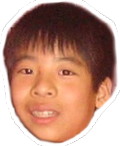
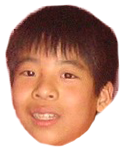
戦闘画面上部の力士名にも二つ名を表示する
名前より小さく添える。左右対称のHUDのため二つ名は内側に置き、
力士名そのものが画面の外端に残るようにした。

名前の設定箇所が2つに分かれていたため setHudName へ集約。
draw() は Player を、画面初期化時は baseStats を渡してくるため、
どちらを受け取っても二つ名を取り出せるようにしている。

diff --git a/js/ui.js b/js/ui.js
@@ -96,8 +96,8 @@ class UIManager {
         const p1 = this.game.p1 ? this.game.p1.baseStats : null;
         const p2 = this.game.p2 ? this.game.p2.baseStats : null;
 
-        if (this.els.p1Name) this.els.p1Name.textContent = p1 ? p1.name : "P1";
-        if (this.els.p2Name) this.els.p2Name.textContent = p2 ? p2.name : "P2";
+        this.setHudName('p1', p1, "P1");
+        this.setHudName('p2', p2, "P2");
 
         const p1CtrlName = document.getElementById('p1-control-name');
         if (p1CtrlName) p1CtrlName.textContent = p1 ? p1.name : "P1";
@@ -477,8 +477,8 @@ class UIManager {
         this.updateBar(p2, 'p2');
         this.updateRikishi(p1);
         this.updateRikishi(p2);
-        if (this.els.p1Name) this.els.p1Name.textContent = p1.name;
-        if (this.els.p2Name) this.els.p2Name.textContent = p2.name;
+        this.setHudName('p1', p1);
+        this.setHudName('p2', p2);
 
         const p1HpText = document.getElementById('p1-hp-text');
         const p2HpText = document.getElementById('p2-hp-text');
@@ -810,6 +810,39 @@ class UIManager {
         if (type === 'hakkeyoi') this.els.gyoji.src = 'assets/img/gyouzi_hakkeyoi.png';
         if (type === 'nokotta') this.els.gyoji.src = 'assets/img/gyouzi_nokotta.png';
         if (type === 'syoubuari') this.els.gyoji.src = 'assets/img/gyouzi_syoubuari.png';
+    }
+
+    /**
+     * 戦闘画面上部の力士名を設定する。
+     * 二つ名がある場合は小さく添える。左右で対称になるよう内側へ置き、
+     * 力士名そのものは画面の外端に残るようにする。
+     *   side     : 'p1' | 'p2'
+     *   charData : Player でも baseStats でも可（未選択時は null）
+     *   fallback : 力士が未設定のときに出す文字列
+     */
+    setHudName(side, charData, fallback = '') {
+        const el = (side === 'p1') ? this.els.p1Name : this.els.p2Name;
+        if (!el) return;
+
+        if (!charData) { el.textContent = fallback; return; }
+
+        // 呼び出し元によって Player と baseStats のどちらも渡ってくる。
+        // 二つ名は baseStats 側にしか無いため、Player なら中身を取り出す。
+        const data = charData.baseStats || charData;
+
+        const name = data.name || charData.name || fallback;
+        const nick = (data.nickname || '').trim();
+        if (!nick) { el.textContent = name; return; }
+
+        el.textContent = '';
+        const nameNode = document.createTextNode(name);
+        const nickEl = document.createElement('span');
+        nickEl.className = 'hud-nickname';
+        nickEl.textContent = nick;
+
+        // P2は右揃えのため、二つ名を名前の手前（内側）に置く
+        if (side === 'p2') el.append(nickEl, nameNode);
+        else el.append(nameNode, nickEl);
     }
 
     initSelectScreen() {

diff --git a/css/ui.css b/css/ui.css
@@ -1236,6 +1236,13 @@ input:checked + .slider:before {
 .gauge-container { width: 48%; padding: 0 5px; }
 .rikishi-info { display: flex; justify-content: space-between; align-items: center; margin-bottom: 8px; }
 .rikishi-name { font-size: 2rem;}
+
+/* 戦闘画面上部の名前に添える二つ名。名前より小さく、内側に置かれる */
+.hud-nickname {
+    font-size: 0.55em;
+    margin: 0 0.4em;
+    vertical-align: 0.15em;   /* 小さい文字が下に沈んで見えるのを補正 */
+}
 .win-count { font-size: 1.5rem; background: #fff; padding: 2px 8px; border: 2px solid var(--ink-black); border-radius: 4px; line-height: 1.2; }
 .stamina-outer { height: 20px; background: #e5e5e5; border: 2px solid var(--ink-black); position: relative; overflow: hidden; }
 .gauge-container:last-child .stamina-outer { margin-left: auto; }
